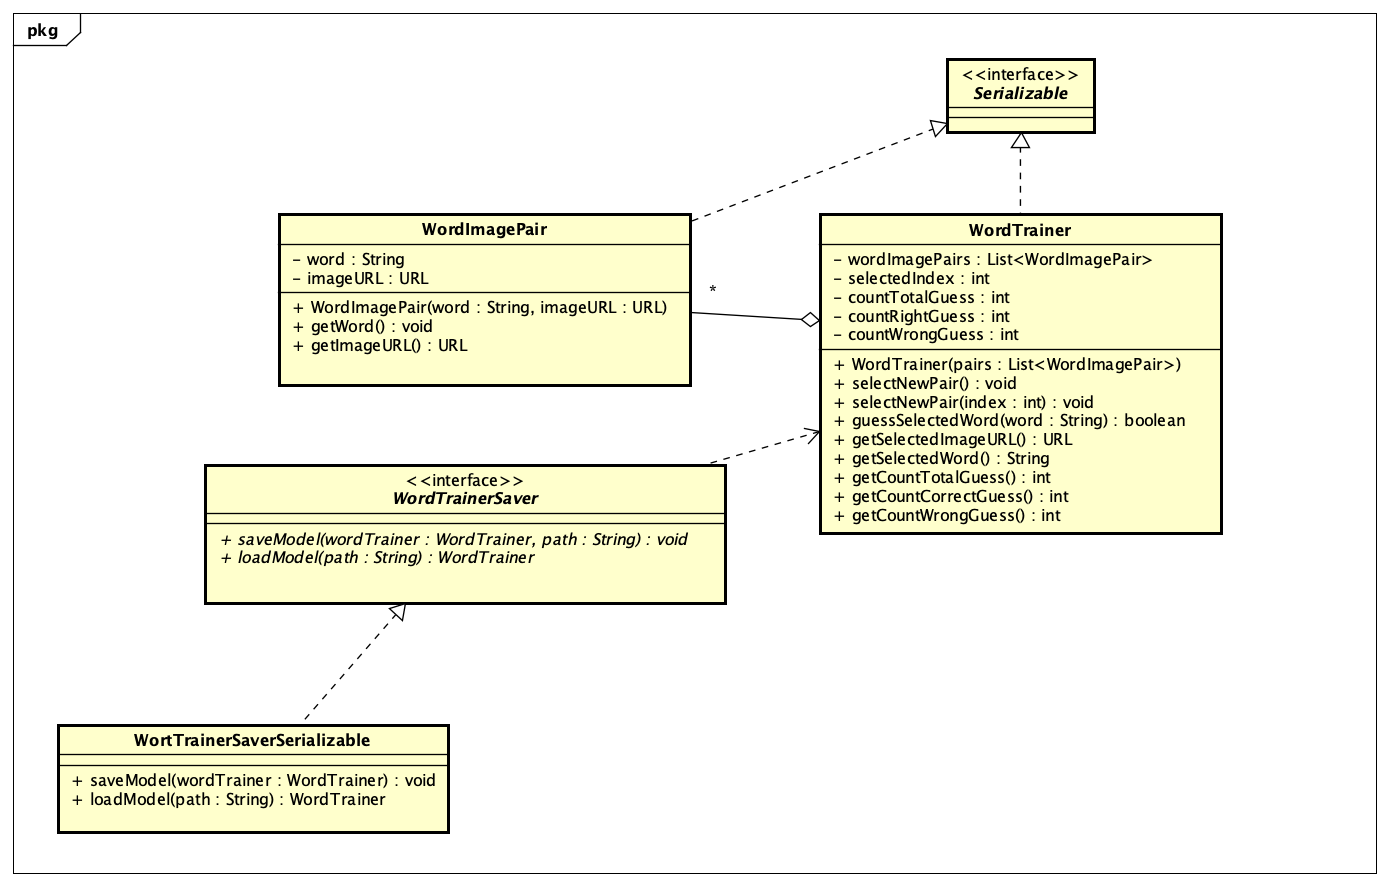
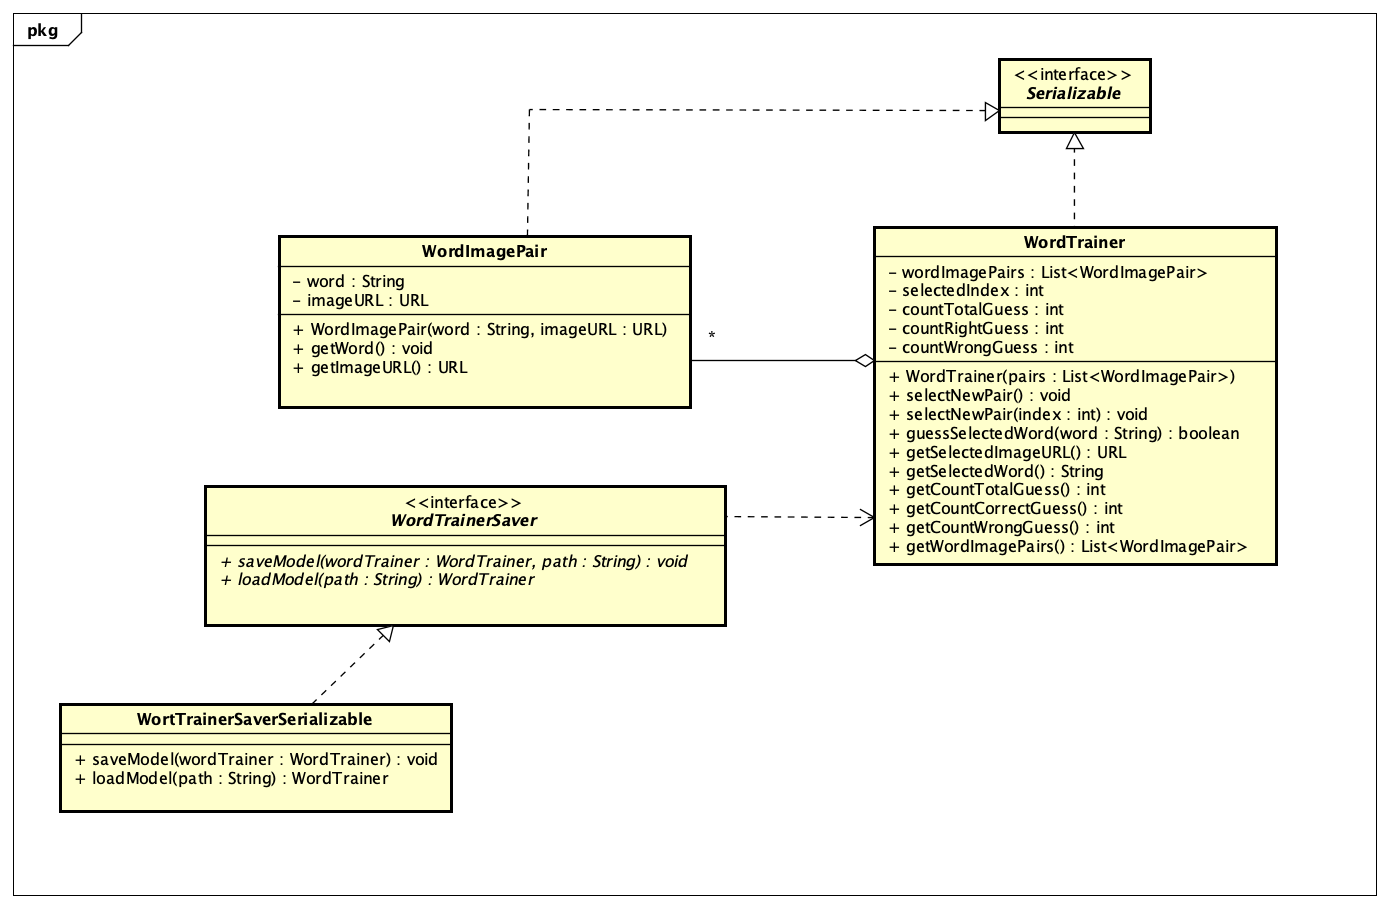
Added Tests and Documentation for persistenence

diff --git a/src/test/java/persistence/WordTrainerSaverSerializableTest.java b/src/test/java/persistence/WordTrainerSaverSerializableTest.java
@@ -1,0 +1,67 @@
+package persistence;
+
+import model.WordImagePair;
+import model.WordTrainer;
+import org.junit.jupiter.api.AfterAll;
+import org.junit.jupiter.api.AfterEach;
+import org.junit.jupiter.api.BeforeAll;
+import org.junit.jupiter.api.Test;
+
+import static org.junit.jupiter.api.Assertions.*;
+
+import java.io.File;
+import java.io.IOException;
+import java.net.URL;
+import java.util.ArrayList;
+import java.util.List;
+
+public class WordTrainerSaverSerializableTest {
+    private static final String TEST_FILE = "test.ser";
+    private static WordTrainer originalWordTrainer;
+    private static WordTrainer loadedWordTrainer;
+    @BeforeAll
+    static void setUp() throws IOException {
+        List<WordImagePair> wordImagePairs = new ArrayList<>();
+        wordImagePairs.add(new WordImagePair("cat", new URL("https://test1.com/test.jpg")));
+        wordImagePairs.add(new WordImagePair("dog", new URL("https://test2.com/test.jpg")));
+
+        originalWordTrainer = new WordTrainer(wordImagePairs);
+        originalWordTrainer.selectNewPair();
+
+        WordTrainerSaver wordTrainerSaver = new WordTrainerSaverSerializable();
+        wordTrainerSaver.save(originalWordTrainer, TEST_FILE);
+
+        File file = new File(TEST_FILE);
+        assert file.exists();
+
+        loadedWordTrainer = wordTrainerSaver.load(TEST_FILE);
+    }
+    @Test
+    void testLoadedWordTrainerNotNull() {
+        assertNotNull(loadedWordTrainer);
+    }
+    @Test
+    void testLoadedWordTrainerSelectedWord() {
+        assertEquals(originalWordTrainer.getSelectedWord(), loadedWordTrainer.getSelectedWord());
+    }
+    @Test
+    void testLoadedWordTrainerSelectedImageURL() {
+        assertEquals(originalWordTrainer.getSelectedImageURL(), loadedWordTrainer.getSelectedImageURL());
+    }
+    @Test
+    void testLoadedWordTrainerWordImagePairsSize() {
+        assertEquals(originalWordTrainer.getWordImagePairs().size(), loadedWordTrainer.getWordImagePairs().size());
+    }
+
+    @Test
+    void testLoadedWordTrainerScore() {
+        assertEquals(originalWordTrainer.getCountTotalGuess(), loadedWordTrainer.getCountTotalGuess());
+        assertEquals(originalWordTrainer.getCountCorrectGuess(), loadedWordTrainer.getCountCorrectGuess());
+        assertEquals(originalWordTrainer.getCountWrongGuess(), loadedWordTrainer.getCountWrongGuess());
+    }
+    @AfterAll
+    static void cleanUp() {
+        File file = new File(TEST_FILE);
+        assert file.delete();
+    }
+}

diff --git a/src/main/java/persistence/WordTrainerSaverSerializable.java b/src/main/java/persistence/WordTrainerSaverSerializable.java
@@ -5,24 +5,34 @@ import model.WordTrainer;
 import java.io.*;
 
 public class WordTrainerSaverSerializable implements WordTrainerSaver {
+    /**
+     * Save the word trainer to a file
+     * @param wordTrainer The WortTrainer Model to save
+     * @param path The path to save the file
+     * @throws IOException If something goes while writing the file
+     */
     @Override
     public void save(WordTrainer wordTrainer, String path) throws IOException {
         FileOutputStream fileOutputStream = new FileOutputStream(path);
-        ObjectOutputStream objectOutputStream = new ObjectOutputStream(fileOutputStream);
-        objectOutputStream.writeObject(wordTrainer);
-        objectOutputStream.flush();
-        objectOutputStream.close();
+        try (ObjectOutputStream objectOutputStream = new ObjectOutputStream(fileOutputStream)) {
+            objectOutputStream.writeObject(wordTrainer);
+            objectOutputStream.flush();
+        }
     }
+
+    /**
+     * Load the word trainer from a file
+     * @param path The path to load the file
+     * @return The WordTrainer Model
+     * @throws IOException If something goes while reading the file
+     */
     @Override
     public WordTrainer load(String path) throws IOException {
         FileInputStream fileInputStream = new FileInputStream(path);
-        ObjectInputStream objectInputStream = new ObjectInputStream(fileInputStream);
-        try {
+        try (ObjectInputStream objectInputStream = new ObjectInputStream(fileInputStream)) {
             return (WordTrainer) objectInputStream.readObject();
         } catch (ClassNotFoundException e) {
             throw new RuntimeException(e);
-        } finally {
-            objectInputStream.close();
         }
     }
 }

diff --git a/src/main/java/model/WordTrainer.java b/src/main/java/model/WordTrainer.java
@@ -4,6 +4,7 @@ import java.io.Serial;
 import java.io.Serializable;
 import java.net.URL;
 import java.util.ArrayList;
+import java.util.Collection;
 import java.util.List;
 
 public class WordTrainer implements Serializable {
@@ -121,5 +122,13 @@ public class WordTrainer implements Serializable {
      */
     public int getCountWrongGuess() {
         return countWrongGuess;
+    }
+
+    /**
+     * Method to get the list of WordImagePairs
+     * @return List of WordImagePairs
+     */
+    public List<WordImagePair> getWordImagePairs() {
+        return wordImagePairs;
     }
 }
